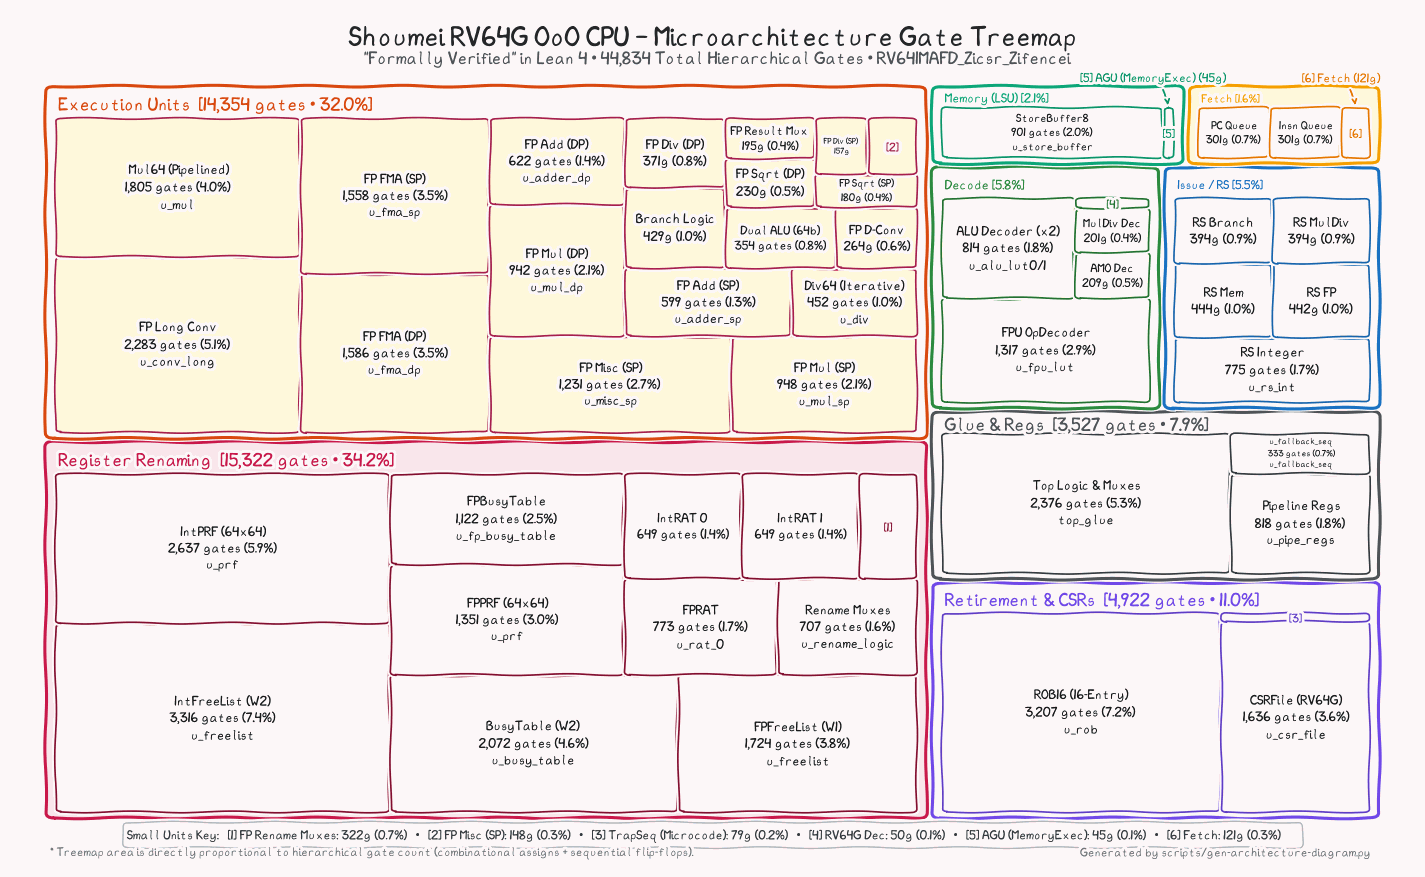
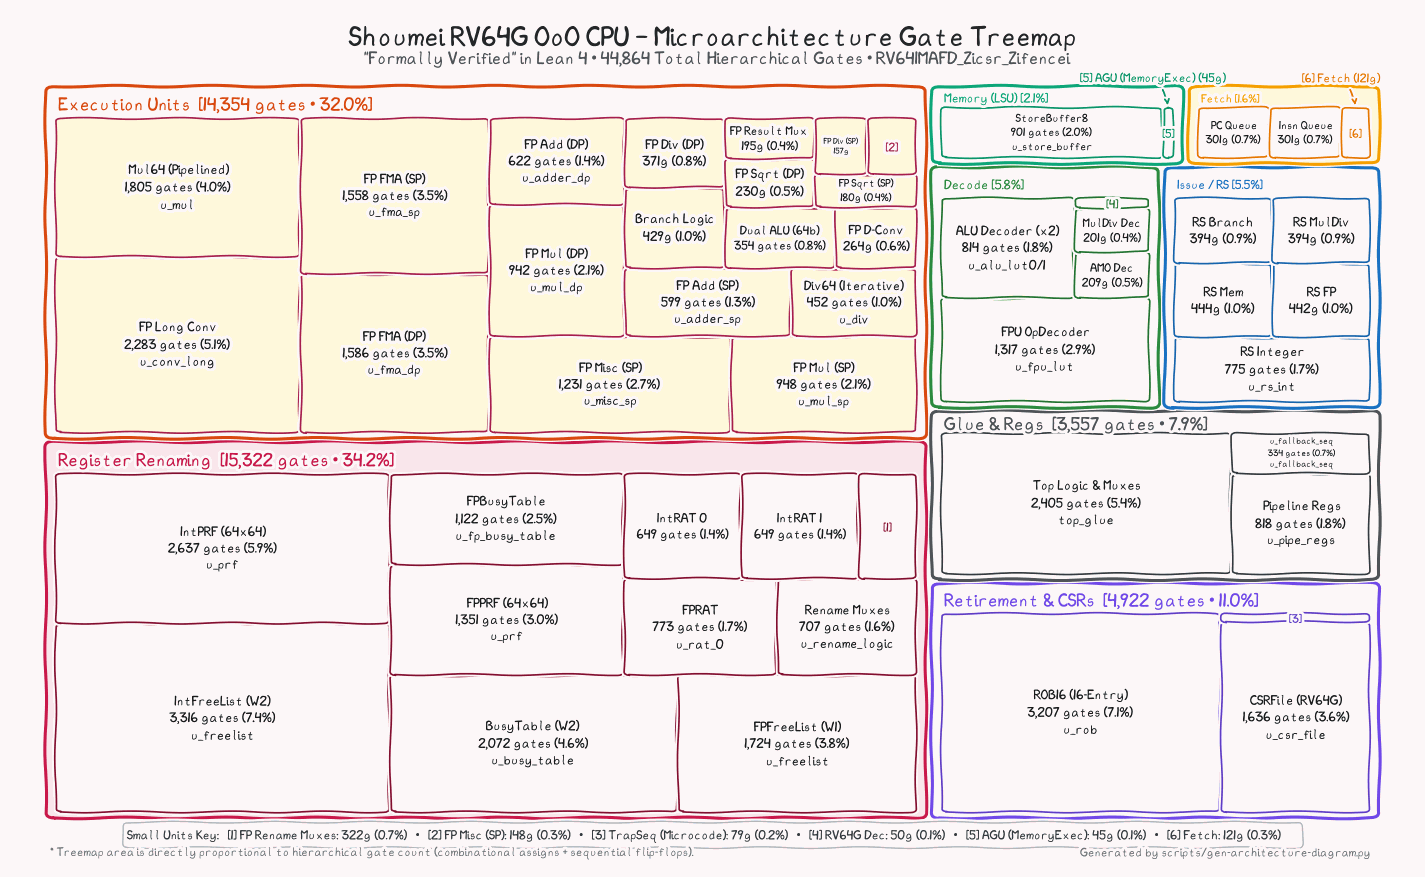
Regenerate after the rebase onto main
Bump codegenVersion: the branch changes the generators (DPI-C SRAM
emission, dedupe, capacity labels) without necessarily changing a given
circuit's structure.

Regenerate the project map and the architecture treemap, which are
checked for freshness by CI.

diff --git a/docs/project-map.md b/docs/project-map.md
@@ -5,10 +5,10 @@ not edit by hand; re-run it.  Composition edges come from
 `moduleName :=` references between circuits, certificates from the
 Lean registry, docs from each file's leading comment block.
 
-- Lean files: **259**
+- Lean files: **262**
 - Circuits with a literal `name :=` (graph nodes): **98**
 - Compositional certificates (Lean registry): **103**
-- Proof files: **74**
+- Proof files: **75**
 
 Parameterised builders (`mkQueueNStructural`, `mkRegisterN`,
 `mkMuxTree`, `mkDecoder`, ...) construct their circuit names by
